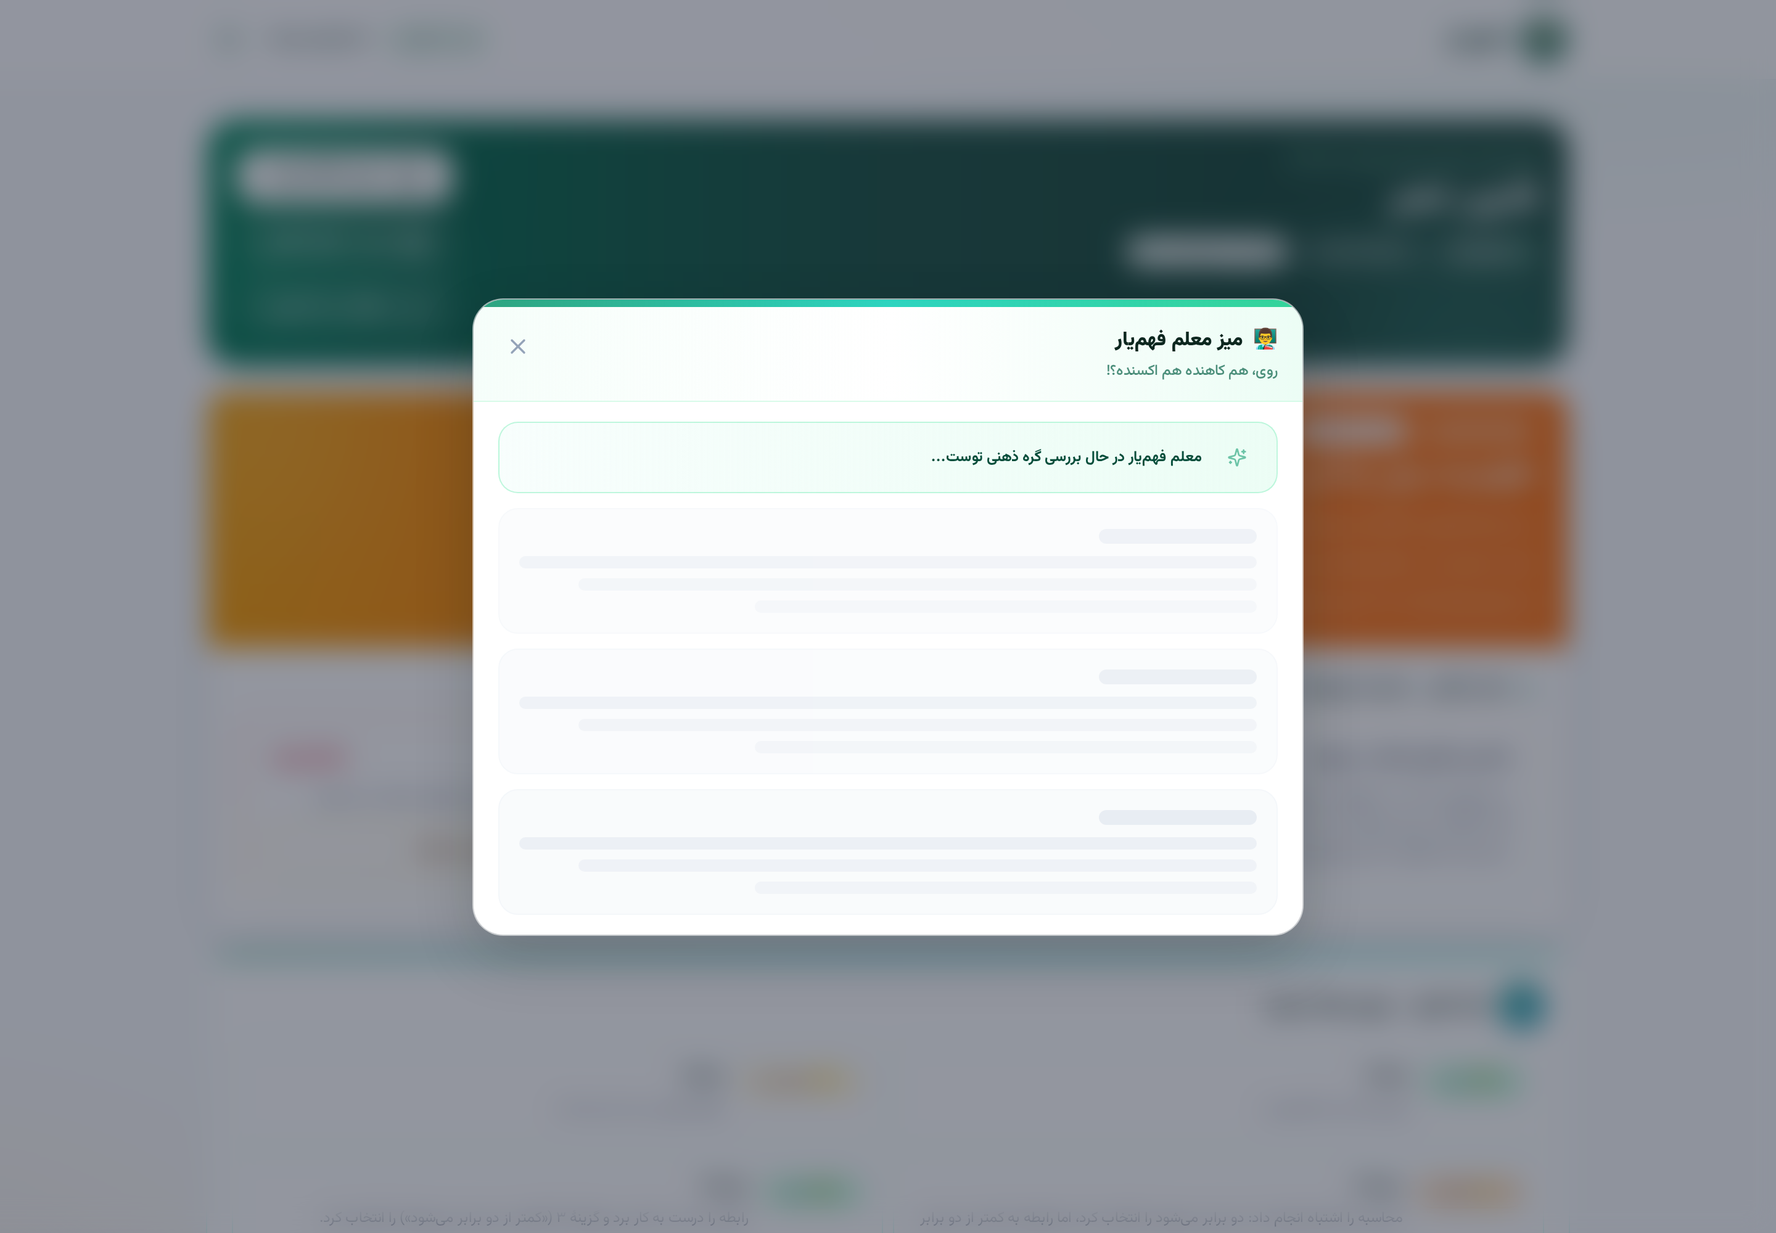
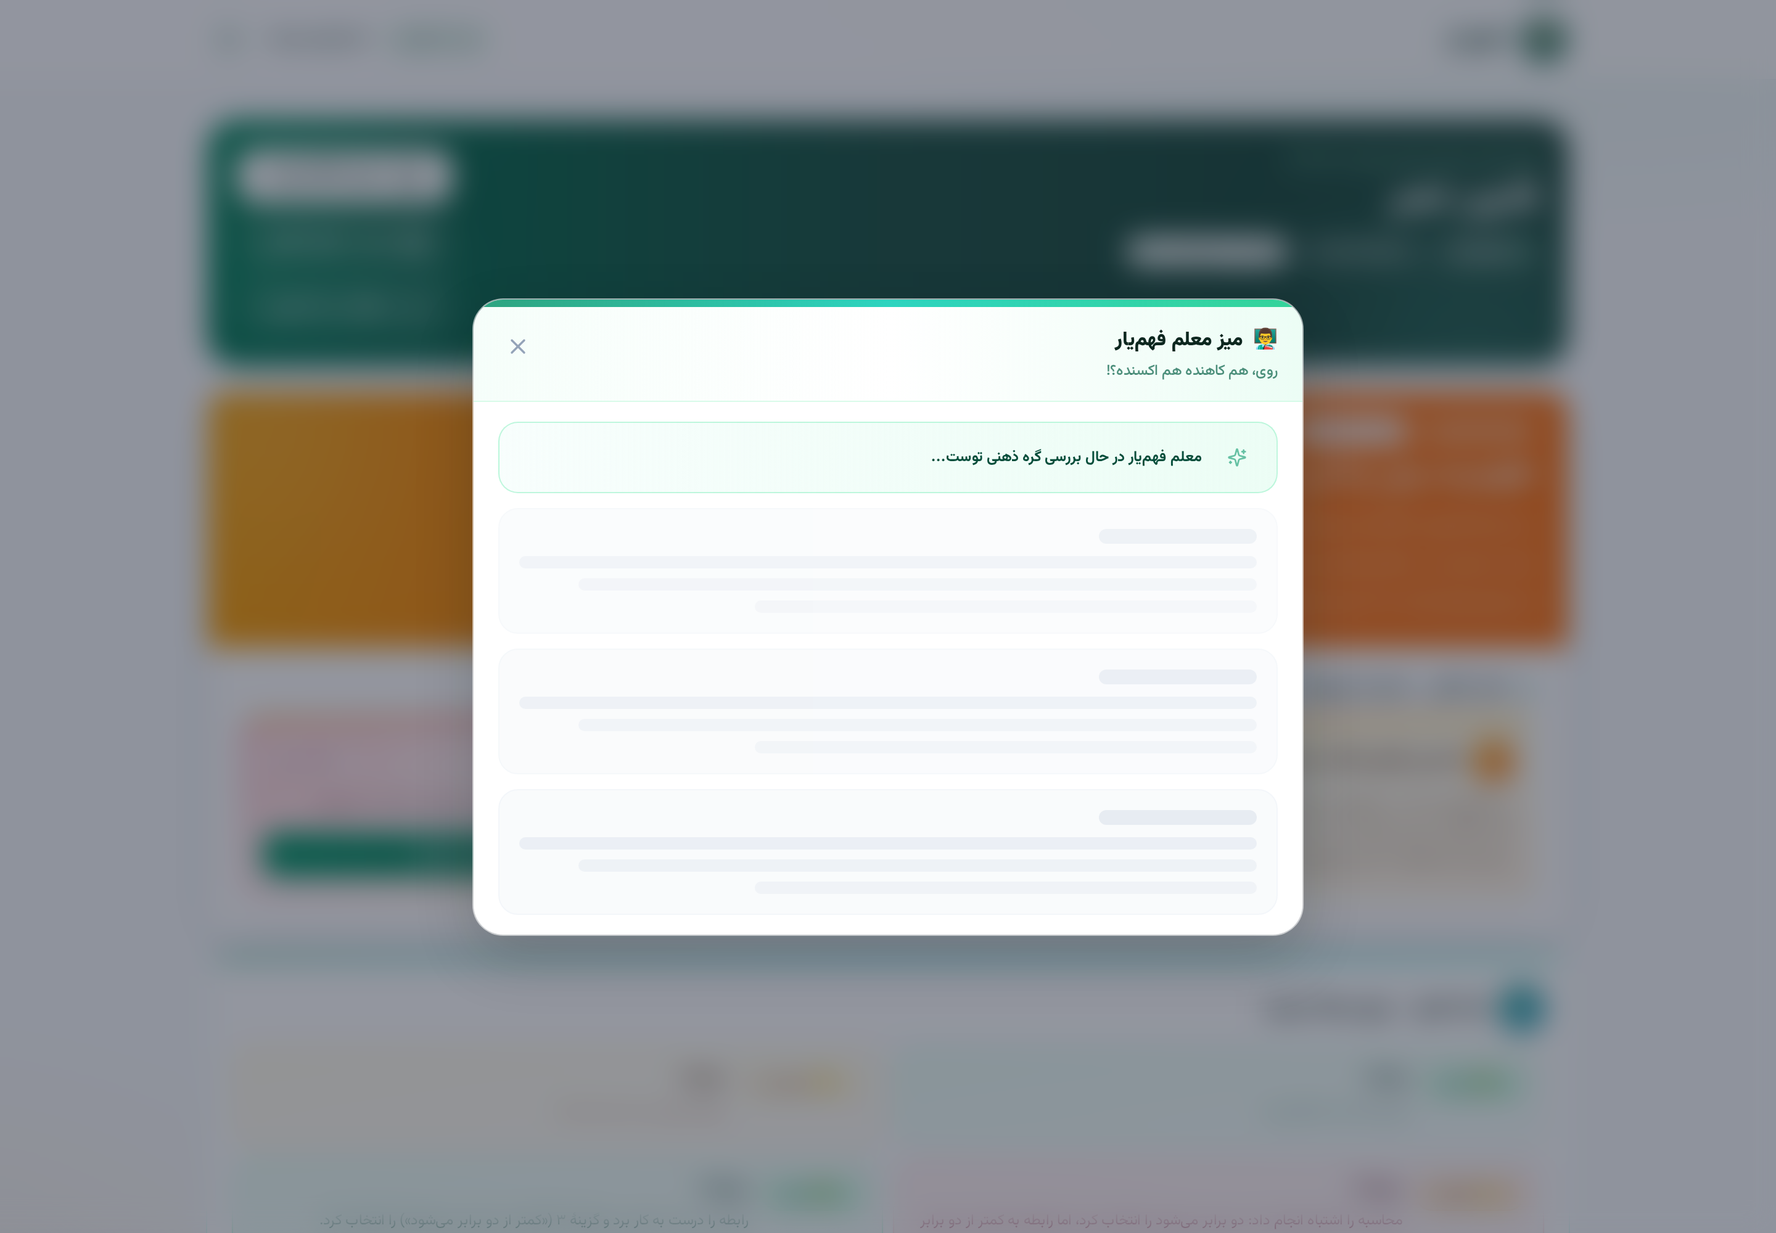
کارتهای تناقض و مرحله: زمینهٔ رنگی بهجای قابِ نازک
- بدنهٔ کارتهای تناقض گرادیانتِ رنگی گرفت؛ رنگ از ۱.۵px لبه به کلِ کارت
  آمد. آیکونِ گرادیانتی + ریلِ براق + هالهٔ گوشه اضافه شد
- سه خانوادهٔ معنادار بهجای پنج رنگِ پراکنده: زمردی (خوب)، کهربایی
  (هشدار)، رز (آسیب)
- کارتهای «پنج مرحلهٔ زنجیره» و «ابعاد فهم» با همان خانوادهها همراستا
  شدند (STAGE_TONE) — قبلاً هر بخش رنگِ خودش را داشت
- باکسِ «چرخدندههای گمشده» پررنگتر شد
- ۲۵۷ تست سبز، بیلد ✓، بدونِ هشدارِ React

diff --git a/frontend/src/components/cognitive/DetailedQuestions.jsx b/frontend/src/components/cognitive/DetailedQuestions.jsx
@@ -12,6 +12,9 @@
 import { useEffect, useMemo, useState } from 'react'
 import { createPortal } from 'react-dom'
 import {
+  GitBranch,
+  Eye,
+  ShieldAlert,
   AlertTriangle,
   ArrowLeft,
   BookOpen,
@@ -205,31 +208,75 @@ export function QuestionCard({ q, index, onOpen }) {
 }
 
 // ═══════════════════════ کارتِ شکارِ تناقض ═══════════════════════
+/**
+ * هویتِ رنگیِ کارتهای تناقض.
+ *
+ * سه خانوادهٔ رنگ، نه پنج رنگِ پراکنده. قاعده: هر خانواده یک معنا دارد و
+ * همهٔ آنها از یک لنگرِ مشترک (زمردیِ برند) شروع یا به آن میرسند، پس
+ * کنارِ هم «همخانواده» دیده میشوند:
+ *
+ *   زمردی/فیروزهای  →  چیزِ خوبی پیدا شد (همافزایی، حلشده)
+ *   کهربایی/نارنجی   →  هشدار (زندانِ اصطلاح)
+ *   رز/قرمز          →  جای آسیب (تناقض، بلوف)
+ *
+ * زمینهٔ کارت خودش رنگی است — نه فقط قابش. قابِ رنگی دورِ سفید، کارت را
+ * «قاببندیشده» نشان میداد نه «رنگی».
+ */
 const FINDING_LOOK = {
   CONTRADICTION: {
     label: 'تناقض عمیق',
-    badge: 'bg-rose-50 text-rose-700 border-rose-200',
-    edge: 'from-rose-400/70 via-amber-300/60 to-emerald-400/60',
+    Icon: GitBranch,
+    body: 'bg-gradient-to-br from-rose-100 via-rose-50 to-amber-100/70',
+    rail: 'from-rose-400 via-rose-500 to-amber-400',
+    icon: 'from-rose-500 to-rose-600',
+    title: 'text-rose-950',
+    text: 'text-rose-950/80',
+    badge: 'bg-white/85 text-rose-700 ring-1 ring-rose-200',
+    glow: 'bg-rose-300/50',
   },
   JARGON_VIOLATION: {
     label: 'زندانِ اصطلاح',
-    badge: 'bg-amber-50 text-amber-700 border-amber-200',
-    edge: 'from-amber-300/70 via-orange-300/50 to-emerald-400/50',
+    Icon: ShieldAlert,
+    body: 'bg-gradient-to-br from-amber-100 via-amber-50 to-orange-100/70',
+    rail: 'from-amber-400 via-orange-400 to-amber-300',
+    icon: 'from-amber-500 to-orange-500',
+    title: 'text-amber-950',
+    text: 'text-amber-950/80',
+    badge: 'bg-white/85 text-amber-800 ring-1 ring-amber-200',
+    glow: 'bg-amber-300/50',
   },
   BLUFF_DETECTED: {
     label: 'بلوفِ شناختهشده',
-    badge: 'bg-rose-50 text-rose-700 border-rose-200',
-    edge: 'from-rose-400/70 via-fuchsia-300/50 to-emerald-400/50',
+    Icon: Eye,
+    body: 'bg-gradient-to-br from-rose-100 via-red-50 to-rose-100/60',
+    rail: 'from-rose-500 via-red-400 to-rose-300',
+    icon: 'from-rose-600 to-red-600',
+    title: 'text-rose-950',
+    text: 'text-rose-950/80',
+    badge: 'bg-white/85 text-rose-800 ring-1 ring-rose-200',
+    glow: 'bg-rose-300/50',
   },
   SYNERGY: {
     label: 'همافزایی',
-    badge: 'bg-emerald-50 text-emerald-700 border-emerald-200',
-    edge: 'from-emerald-400/70 via-teal-300/50 to-cyan-400/50',
+    Icon: Sparkles,
+    body: 'bg-gradient-to-br from-emerald-100 via-teal-50 to-cyan-100/60',
+    rail: 'from-emerald-400 via-teal-400 to-cyan-300',
+    icon: 'from-emerald-500 to-teal-600',
+    title: 'text-emerald-950',
+    text: 'text-emerald-950/80',
+    badge: 'bg-white/85 text-emerald-800 ring-1 ring-emerald-200',
+    glow: 'bg-emerald-300/50',
   },
   SLIP_RESOLVED: {
     label: 'حلشده در بازپرسی',
-    badge: 'bg-emerald-50 text-emerald-700 border-emerald-200',
-    edge: 'from-sky-400/70 via-cyan-300/50 to-emerald-400/50',
+    Icon: CheckCircle2,
+    body: 'bg-gradient-to-br from-sky-100 via-emerald-50 to-teal-100/60',
+    rail: 'from-sky-400 via-emerald-400 to-teal-300',
+    icon: 'from-sky-500 to-emerald-600',
+    title: 'text-teal-950',
+    text: 'text-teal-950/80',
+    badge: 'bg-white/85 text-teal-800 ring-1 ring-teal-200',
+    glow: 'bg-sky-300/50',
   },
 }
 
@@ -238,58 +285,70 @@ export function ContradictionCard({ finding, onTeach, busy = false }) {
   const look = FINDING_LOOK[type] ?? FINDING_LOOK.SYNERGY
   const isContradiction = type === 'CONTRADICTION'
   const resolved = Boolean(rawText(finding?.resolution))
+  const Icon = look.Icon
 
   return (
-    <div className="group relative flex flex-col overflow-hidden rounded-2xl bg-white p-[1.5px] shadow-panel transition-all duration-300 hover:-translate-y-0.5 hover:shadow-panel-hover">
-      {/* لبهٔ گرادیانتی — قابِ نازکِ رنگی دورِ کلِ کارت */}
+    <div
+      className={`group relative flex flex-col overflow-hidden rounded-2xl ${look.body} p-5 shadow-panel ring-1 ring-black/[0.06] transition-all duration-300 hover:-translate-y-1 hover:shadow-panel-hover`}
+    >
+      {/* ریلِ بالای کارت — همان رنگِ خانواده، ولی براق */}
       <span
-        className={`pointer-events-none absolute inset-0 rounded-2xl bg-gradient-to-br ${look.edge}`}
+        className={`pointer-events-none absolute inset-x-0 top-0 h-1 bg-gradient-to-l ${look.rail}`}
         aria-hidden="true"
       />
-      <div className="relative flex flex-1 flex-col rounded-[14px] bg-white p-5">
-        <div className="flex flex-wrap items-center gap-2">
-          <p className="min-w-0 flex-1 text-sm font-bold leading-6 text-slate-800">
-            {finding?.contradiction_title || finding?.title}
-          </p>
-          <span
-            className={`inline-flex shrink-0 items-center gap-1 rounded-full border px-2.5 py-1 text-[10px] font-black ${
-              resolved ? 'border-emerald-200 bg-emerald-50 text-emerald-700' : look.badge
-            }`}
-          >
-            {resolved ? (
-              <>
-                <CheckCircle2 className="h-3 w-3" strokeWidth={2.5} />
-                حلشده در بازپرسی
-              </>
-            ) : (
-              look.label
-            )}
-          </span>
-        </div>
+      {/* هالهٔ گوشه — زمینه را از «رنگِ تخت» به «رنگِ زنده» میبرد */}
+      <span
+        className={`pointer-events-none absolute -left-10 -top-12 h-36 w-36 rounded-full blur-3xl ${look.glow}`}
+        aria-hidden="true"
+      />
 
-        {rawText(finding?.description) && (
-          <p className="mt-2 text-sm leading-relaxed text-slate-600">{finding.description}</p>
-        )}
-
-        {rawText(finding?.resolution) && (
-          <div className="mt-3 rounded-xl border border-amber-200/70 bg-gradient-to-br from-amber-50 to-calm-50 p-3 text-xs leading-6 text-slate-700">
-            <span className="font-bold text-amber-900">توضیحِ خودت: </span>
-            {finding.resolution}
-          </div>
-        )}
-
-        {isContradiction && (
-          <button
-            type="button"
-            onClick={() => onTeach?.(finding)}
-            disabled={busy}
-            className="mt-3 flex w-full items-center justify-center gap-2 rounded-xl border border-amber-300 bg-gradient-to-l from-amber-50 to-white px-4 py-2.5 text-xs font-bold text-amber-900 shadow-sm transition-all duration-200 hover:-translate-y-0.5 hover:border-emerald-400 hover:from-emerald-50 hover:to-white hover:text-emerald-800 hover:shadow-md active:translate-y-0 disabled:opacity-60"
-          >
-            <Sparkles className={`h-4 w-4 ${busy ? 'animate-spin' : ''}`} />
-            {busy ? 'معلم دارد تحلیل میکند...' : 'حل این تناقض با معلم (چرا تناقض داشتم؟)'}
-          </button>
-        )}
+      <div className="relative flex flex-wrap items-center gap-2">
+        <span
+          className={`flex h-8 w-8 shrink-0 items-center justify-center rounded-xl bg-gradient-to-br ${look.icon} text-white shadow-sm ring-1 ring-white/40`}
+        >
+          <Icon className="h-4 w-4" strokeWidth={2.4} />
+        </span>
+        <p className={`min-w-0 flex-1 text-sm font-black leading-6 ${look.title}`}>
+          {finding?.contradiction_title || finding?.title}
+        </p>
+        <span
+          className={`inline-flex shrink-0 items-center gap-1 rounded-full px-2.5 py-1 text-[10px] font-black shadow-sm ${
+            resolved ? 'bg-white/85 text-emerald-700 ring-1 ring-emerald-200' : look.badge
+          }`}
+        >
+          {resolved ? (
+            <>
+              <CheckCircle2 className="h-3 w-3" strokeWidth={2.5} />
+              حلشده در بازپرسی
+            </>
+          ) : (
+            look.label
+          )}
+        </span>
       </div>
+
+      {rawText(finding?.description) && (
+        <p className={`relative mt-2 text-sm leading-relaxed ${look.text}`}>{finding.description}</p>
+      )}
+
+      {rawText(finding?.resolution) && (
+        <div className="relative mt-3 rounded-xl border border-white/70 bg-white/60 p-3 text-xs leading-6 text-slate-700 shadow-sm backdrop-blur-sm">
+          <span className={`font-black ${look.title}`}>توضیحِ خودت: </span>
+          {finding.resolution}
+        </div>
+      )}
+
+      {isContradiction && (
+        <button
+          type="button"
+          onClick={() => onTeach?.(finding)}
+          disabled={busy}
+          className="relative mt-3 flex w-full items-center justify-center gap-2 rounded-xl bg-gradient-to-l from-brand-700 to-emerald-600 px-4 py-2.5 text-xs font-black text-white shadow-md transition-all duration-200 hover:-translate-y-0.5 hover:from-brand-800 hover:to-emerald-700 hover:shadow-lg active:translate-y-0 disabled:opacity-60"
+        >
+          <Sparkles className={`h-4 w-4 ${busy ? 'animate-spin' : ''}`} />
+          {busy ? 'معلم دارد تحلیل میکند...' : 'حل این تناقض با معلم (چرا تناقض داشتم؟)'}
+        </button>
+      )}
     </div>
   )
 }

diff --git a/frontend/src/pages/ReportView.jsx b/frontend/src/pages/ReportView.jsx
@@ -409,27 +409,51 @@ const DIM_LABEL = {
   simple_communication: 'انتقال ساده',
 }
 
+/** رنگِ کارتهای «پنج مرحلهٔ زنجیره» — همخانوادهٔ کارتهای تناقض. */
+const STAGE_TONE = {
+  CORRECT: {
+    card: 'border-emerald-200/70 bg-gradient-to-br from-emerald-50 via-emerald-50/70 to-teal-50/50',
+    title: 'text-emerald-950',
+    text: 'text-emerald-900/70',
+  },
+  HALF_CORRECT: {
+    card: 'border-amber-200/70 bg-gradient-to-br from-amber-50 via-amber-50/70 to-orange-50/50',
+    title: 'text-amber-950',
+    text: 'text-amber-900/70',
+  },
+  WRONG: {
+    card: 'border-rose-200/70 bg-gradient-to-br from-rose-50 via-rose-50/70 to-red-50/50',
+    title: 'text-rose-950',
+    text: 'text-rose-900/70',
+  },
+  INSUFFICIENT_EVIDENCE: {
+    card: 'border-slate-200/80 bg-gradient-to-br from-slate-50 via-slate-50/70 to-brand-50/40',
+    title: 'text-slate-800',
+    text: 'text-slate-600',
+  },
+}
+
 const DIM_STYLE = {
   mastered: {
-    card: 'border-emerald-200 bg-emerald-50/40',
+    card: 'border-emerald-200/70 bg-gradient-to-br from-emerald-50 via-emerald-50/70 to-teal-50/40',
     chip: 'bg-emerald-100 text-emerald-900 ring-emerald-300',
     label: 'تسلط',
     fallback: 'این بُعد با استدلالِ روشن در پاسخها ثبت شده است.',
   },
   developing: {
-    card: 'border-amber-200 bg-amber-50/40',
+    card: 'border-amber-200/70 bg-gradient-to-br from-amber-50 via-amber-50/70 to-orange-50/40',
     chip: 'bg-amber-100 text-amber-900 ring-amber-300',
     label: 'در حال رشد',
     fallback: 'هستهٔ این بُعد درست است، اما بیان باید کاملتر شود.',
   },
   needs_work: {
-    card: 'border-rose-200 bg-rose-50/40',
+    card: 'border-rose-200/70 bg-gradient-to-br from-rose-50 via-rose-50/70 to-red-50/40',
     chip: 'bg-rose-100 text-rose-900 ring-rose-300',
     label: 'نیازمند کار',
     fallback: 'این بُعد بدفهمیِ روشن دارد و باید بازسازی شود.',
   },
   not_assessed: {
-    card: 'border-slate-200 bg-slate-50/60',
+    card: 'border-slate-200/80 bg-gradient-to-br from-slate-50 to-brand-50/30',
     chip: 'bg-slate-100 text-slate-600 ring-slate-300',
     label: 'بدون پاسخ',
     fallback: 'به این مرحله پاسخی نداده است؛ داوری ممکن نیست.',
@@ -758,7 +782,7 @@ function ExamReport({ report, mode, onBackToDashboard, sessionIdProp }) {
             )}
 
             {perQuestion.some((q) => q.missing_gear) && (
-              <div className="mt-4 rounded-2xl border border-amber-200/70 bg-gradient-to-br from-amber-50/80 to-white p-4">
+              <div className="mt-4 rounded-2xl border border-amber-200/70 bg-gradient-to-br from-amber-100 via-amber-50 to-orange-50/60 p-4 shadow-sm">
                 <p className="flex items-center gap-1.5 text-[12px] font-black text-amber-900">
                   <Wrench className="h-3.5 w-3.5" /> چرخدندههای گمشده
                 </p>
@@ -793,17 +817,23 @@ function ExamReport({ report, mode, onBackToDashboard, sessionIdProp }) {
       {hasStageEvidence && (
         <SectionCard Icon={Layers} title="ابعاد فهم — پنج مرحلهٔ زنجیره" tone="teal">
           <div className="grid gap-2 md:grid-cols-2">
-            {stageDimensions.map((q, i) => (
-              <div key={i} className="flex items-start gap-3 rounded-2xl border border-teal-100 bg-white/80 p-4">
+            {stageDimensions.map((q, i) => {
+              const tone = STAGE_TONE[validBadgeStatus(q.status)] ?? STAGE_TONE.INSUFFICIENT_EVIDENCE
+              return (
+              <div
+                key={i}
+                className={`flex items-start gap-3 rounded-2xl border p-4 shadow-sm transition-all duration-200 hover:-translate-y-0.5 hover:shadow-md ${tone.card}`}
+              >
                 <Badge status={validBadgeStatus(q.status)} className="mt-0.5 shrink-0" />
                 <div className="min-w-0">
-                  <p className="text-[13px] font-black text-brand-950">{faStageTitle(q, i)}</p>
-                  <p className="mt-1 text-[12px] leading-6 text-slate-600">
+                  <p className={`text-[13px] font-black ${tone.title}`}>{faStageTitle(q, i)}</p>
+                  <p className={`mt-1 text-[12px] leading-6 ${tone.text}`}>
                     {faText(q.cognitive_verdict || q.qualitative_feedback || '', stageFallback(q.status))}
                   </p>
                 </div>
               </div>
-            ))}
+              )
+            })}
           </div>
         </SectionCard>
       )}

diff --git a/COGNITIVE_ENGINE.md b/COGNITIVE_ENGINE.md
@@ -804,3 +804,37 @@ full-page آن را پنهان میکند.
 
 **قاعده:** تیرگی در سطحِ ۱ ممنوع نیست؛ آنچه ممنوع بود «جزیرهٔ تیره» بود —
 یعنی یک کارتِ سرمهایِ تنها در دریای سفید. نردبانِ منظم، جزیره نیست.
+
+### ۱۷.۶ کارتهای رنگی — پایانِ «قابِ تنها»
+
+بازخورد: «صرفاً از رنگ برای قاب درست کردن استفاده کردی. این رو نمیخوام.»
+دقیق بود: `p-[1.5px]` + `bg-white` یعنی رنگ فقط در ۱.۵ پیکسلِ لبه بود و
+بدنه سفیدِ تخت. کارت **قاببندیشده** دیده میشد، نه **رنگی**.
+
+تغییر: زمینهٔ خودِ کارت گرادیانت شد.
+
+```
+بدنه:  from-rose-100 via-rose-50 to-amber-100/70
+ریل:   from-rose-400 via-rose-500 to-amber-400      (h-1 بالای کارت)
+آیکون: from-rose-500 to-rose-600  (h-8 w-8 rounded-xl، سفید روی آن)
+هاله:  bg-rose-300/50  (blur-3xl، گوشهٔ بالا-چپ)
+```
+
+### قاعدهٔ هارمونی — سه خانواده، نه پنج رنگ
+
+اولین تلاشم پنج رنگِ مستقل بود و کنارِ هم **تصادفی** دیده میشدند.
+قاعدهٔ نهایی: هر رنگ یک **معنا** دارد و همه به یک لنگر میرسند.
+
+| خانواده | معنا | انواع |
+|---|---|---|
+| زمردی/فیروزهای | «چیزی خوب پیدا شد» | همافزایی، حلشده |
+| کهربایی/نارنجی | «هشدار» | زندانِ اصطلاح |
+| رز/قرمز | «جای آسیب» | تناقض، بلوف |
+
+همچنین رنگِ وضعیتِ کارتهای «پنج مرحلهٔ زنجیره» و «ابعاد فهم» با همین
+سه خانواده همراستا شد (`STAGE_TONE`, `DIM_STYLE`). قبل از آن، مرحلهای
+سبز و بُعدی آبی و تناقضی صورتی بود — سه سیستمِ جدا در یک صفحه.
+
+**درس:** یکدستکردنِ همهچیز به سفید، و رنگِ مستقلدادن به هر کارت، هر دو
+غلطاند. راهِ درست: **نقشهٔ معناییِ رنگ** — رنگها کم باشند، ولی هر کدام
+معنایی داشته باشند و همه از یک لنگر بیایند.
